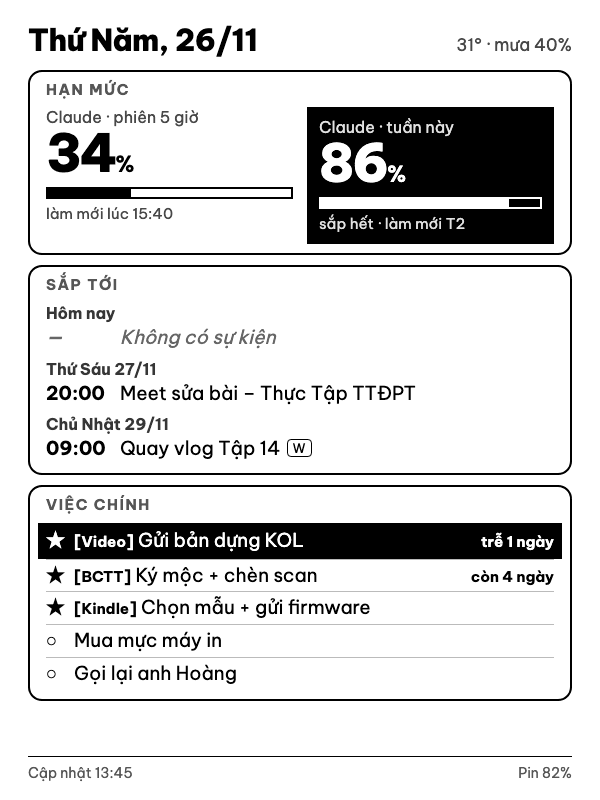
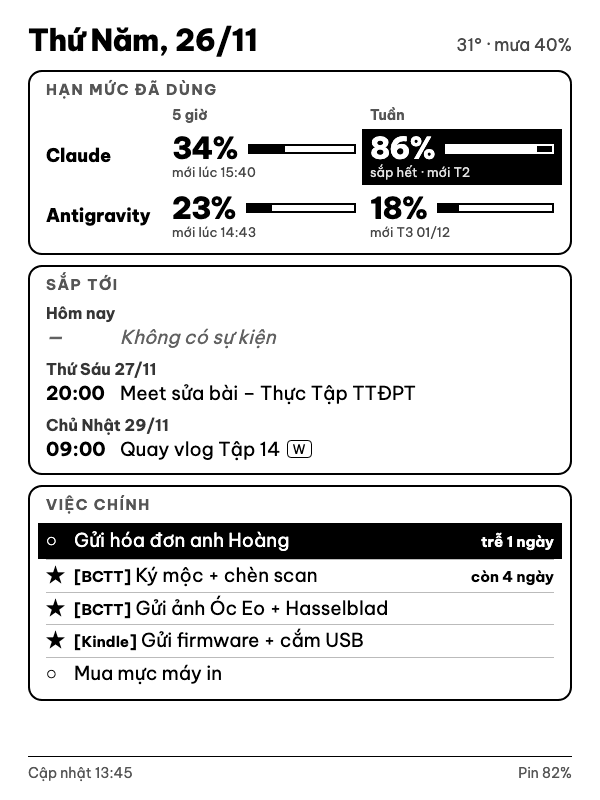
Chốt mẫu A: hạn mức 2 dòng Claude + Antigravity (% đã dùng); script thanh trạng thái; web app Apps Script lịch + Tasks (chưa triển khai)

diff --git a/mau/mau.html b/mau/mau.html
@@ -23,6 +23,15 @@ body{font-family:"Be Vietnam Pro",sans-serif;font-size:19px;line-height:1.25;pad
 .u.warn{background:#000;color:#fff;padding:10px 12px}
 .u.warn .name,.u.warn .sub{color:#ddd}
 .u.warn .bar{border-color:#fff}.u.warn .bar i{background:#fff}
+.q{display:grid;grid-template-columns:112px 1fr 1fr;gap:4px 14px;align-items:center}
+.qh{font-size:14px;font-weight:700;color:#555}
+.qn{font-weight:800;font-size:18px}
+.qc{display:grid;grid-template-columns:auto 1fr;column-gap:10px;align-items:center;padding:4px 8px;margin:0 -8px}
+.qc b{font-size:30px;font-weight:800;letter-spacing:-1px;line-height:1.05}
+.qc .bar{margin:0;height:10px}
+.qc s{grid-column:1/3;text-decoration:none;font-size:13px;color:#444}
+.qc.warn{background:#000;color:#fff}.qc.warn s{color:#ddd}
+.qc.warn .bar{border-color:#fff}.qc.warn .bar i{background:#fff}
 .day{font-size:16px;font-weight:700;margin:6px 0 0;color:#333}
 .ev{display:flex;gap:12px;padding:3px 0}
 .ev .t{width:62px;flex:none;font-weight:700}
@@ -74,20 +83,15 @@ const v=(location.search.match(/v=(\w)/)||[,'a'])[1];document.body.className=v;
     <div class="meta">31° · mưa 40%</div>
   </div>
   <div class="sec card">
-    <div class="label">Hạn mức</div>
-    <div class="usage">
-      <div class="u">
-        <div class="name">Claude · phiên 5 giờ</div>
-        <div class="pct">34<small>%</small></div>
-        <div class="bar"><i style="width:34%"></i></div>
-        <div class="sub">làm mới lúc 15:40</div>
-      </div>
-      <div class="u warn">
-        <div class="name">Claude · tuần này</div>
-        <div class="pct">86<small>%</small></div>
-        <div class="bar"><i style="width:86%"></i></div>
-        <div class="sub">sắp hết · làm mới T2</div>
-      </div>
+    <div class="label">Hạn mức đã dùng</div>
+    <div class="q">
+      <span></span><span class="qh">5 giờ</span><span class="qh">Tuần</span>
+      <span class="qn">Claude</span>
+      <div class="qc"><b>34%</b><div class="bar"><i style="width:34%"></i></div><s>mới lúc 15:40</s></div>
+      <div class="qc warn"><b>86%</b><div class="bar"><i style="width:86%"></i></div><s>sắp hết · mới T2</s></div>
+      <span class="qn">Antigravity</span>
+      <div class="qc"><b>23%</b><div class="bar"><i style="width:23%"></i></div><s>mới lúc 14:43</s></div>
+      <div class="qc"><b>18%</b><div class="bar"><i style="width:18%"></i></div><s>mới T3 01/12</s></div>
     </div>
   </div>
 </div>
@@ -104,11 +108,11 @@ const v=(location.search.match(/v=(\w)/)||[,'a'])[1];document.body.className=v;
 
 <div class="sec card">
   <div class="label">Việc chính</div>
-  <div class="todo late"><span class="star">★</span><span class="txt"><span class="p">[Video]</span> Gửi bản dựng KOL</span><span class="due">trễ 1 ngày</span></div>
+  <div class="todo late"><span class="star">○</span><span class="txt">Gửi hóa đơn anh Hoàng</span><span class="due">trễ 1 ngày</span></div>
   <div class="todo"><span class="star">★</span><span class="txt"><span class="p">[BCTT]</span> Ký mộc + chèn scan</span><span class="due">còn 4 ngày</span></div>
-  <div class="todo"><span class="star">★</span><span class="txt"><span class="p">[Kindle]</span> Chọn mẫu + gửi firmware</span><span class="due"></span></div>
+  <div class="todo"><span class="star">★</span><span class="txt"><span class="p">[BCTT]</span> Gửi ảnh Óc Eo + Hasselblad</span><span class="due"></span></div>
+  <div class="todo"><span class="star">★</span><span class="txt"><span class="p">[Kindle]</span> Gửi firmware + cắm USB</span><span class="due"></span></div>
   <div class="todo"><span class="star">○</span><span class="txt">Mua mực máy in</span><span class="due"></span></div>
-  <div class="todo"><span class="star">○</span><span class="txt">Gọi lại anh Hoàng</span><span class="due"></span></div>
 </div>
 
 <div class="foot"><span>Cập nhật 13:45</span><span>Pin 82%</span></div>

diff --git a/gas/Code.js b/gas/Code.js
@@ -1,0 +1,37 @@
+// Web app chỉ-đọc cho Kindle dash: trả lịch 3 ngày tới + Google Tasks dạng JSON.
+// Cần ?token= khớp TOKEN trong bimat.js (file này không lên GitHub, chỉ đẩy lên Apps Script bằng clasp).
+// Chỉ trả giờ + tiêu đề: không mô tả, link, người tham gia.
+
+const LICH = ['Work', 'Study', 'Ngày lễ ở Việt Nam']; // cộng lịch chính
+const KY_HIEU = { 'Work': 'W', 'Study': 'S', 'Ngày lễ ở Việt Nam': 'L' };
+
+function doGet(e) {
+  if (!e || !e.parameter || e.parameter.token !== TOKEN) return json_({ loi: 'sai token' });
+  return json_({ luc: new Date().toISOString(), su_kien: suKien_(), viec: viec_() });
+}
+
+function suKien_() {
+  const tu = new Date(), den = new Date(tu.getTime() + 4 * 864e5); // dư 1 ngày, phía vẽ tự cắt 3 ngày
+  const lichs = [CalendarApp.getDefaultCalendar()].concat(
+    CalendarApp.getAllCalendars().filter(c => LICH.indexOf(c.getName()) >= 0));
+  const ra = [];
+  lichs.forEach(c => c.getEvents(tu, den).forEach(ev => ra.push({
+    bat_dau: ev.getStartTime().toISOString(),
+    ket_thuc: ev.getEndTime().toISOString(),
+    ca_ngay: ev.isAllDayEvent(),
+    tieu_de: ev.getTitle(),
+    lich: KY_HIEU[c.getName()] || ''
+  })));
+  return ra.sort((a, b) => a.bat_dau < b.bat_dau ? -1 : 1);
+}
+
+function viec_() {
+  const ds = Tasks.Tasklists.list({ maxResults: 1 }).items || []; // danh sách mặc định = đầu tiên
+  if (!ds.length) return [];
+  const items = Tasks.Tasks.list(ds[0].id, { showCompleted: false, maxResults: 50 }).items || [];
+  return items.filter(t => t.title).map(t => ({ tieu_de: t.title, han: t.due || null }));
+}
+
+function json_(o) {
+  return ContentService.createTextOutput(JSON.stringify(o)).setMimeType(ContentService.MimeType.JSON);
+}

diff --git a/may/statusline.py b/may/statusline.py
@@ -1,0 +1,16 @@
+"""Thanh trạng thái Claude Code: nhận số hạn mức Claude Code gửi sẵn (rate_limits), ghi ra ~/.kindle-dash/claude.json.
+Không đọc token. Chạy được trên Mac và PC (chỉ thư viện chuẩn)."""
+import json, sys, time
+from pathlib import Path
+
+d = json.load(sys.stdin)
+out = Path.home() / ".kindle-dash"
+out.mkdir(exist_ok=True)
+rl = d.get("rate_limits") or {}
+if rl:
+    (out / "claude.json").write_text(json.dumps({"rate_limits": rl, "luc": int(time.time())}))
+# shortcut: ghi tên trường để kiểm lần đầu, xóa khi đã chắc dữ liệu ổn định
+(out / "statusline-keys.json").write_text(json.dumps(sorted(d.keys())))
+
+p = lambda k: round((rl.get(k) or {}).get("used_percentage") or 0)
+print(f"Claude 5h {p('five_hour')}% · tuần {p('seven_day')}%" if rl else "Claude · chưa có số hạn mức")
